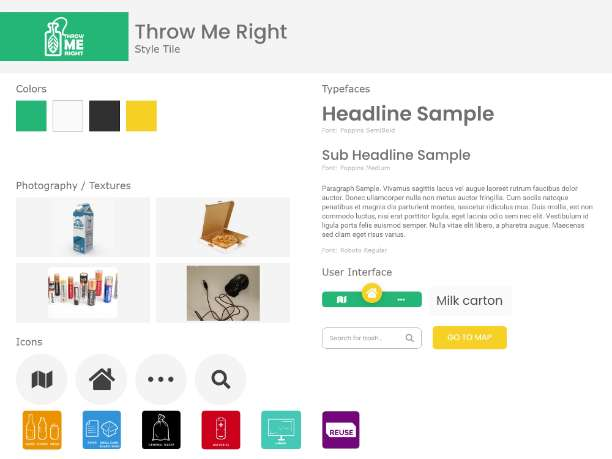
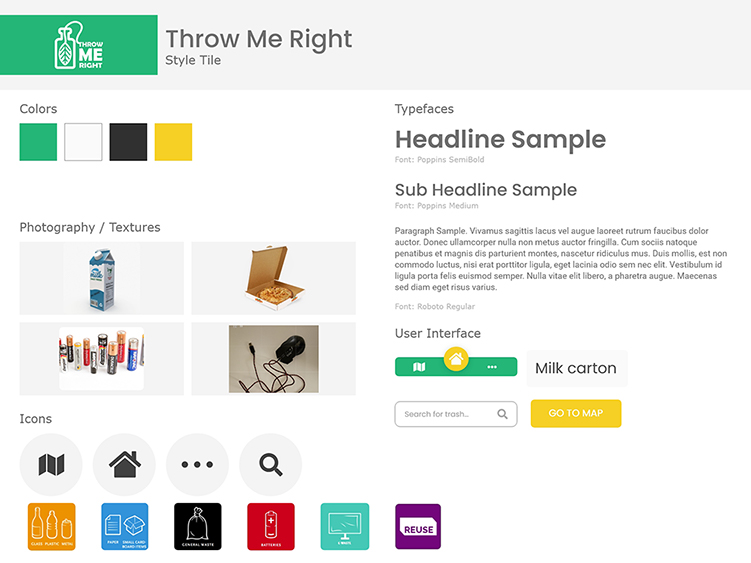
scrollbar and small changes

diff --git a/index.html b/index.html
@@ -155,9 +155,9 @@
                 </div>
                 <div class="project-process-content">
                     <h4>Style tiles</h4>
-                    <p class="project-text">Wireframes as a lo-fi digital prototype is a good choice before you'll start doing mockups. It enabled us to make a final decision of how to divide sections and where to place all important elements like buttons, icons, and images.
+                    <p class="project-text">From the beginning of the project we wanted to hark back to nature and being eco. That's why we chose combination of green and yellow color to highlight essensial information like navigation and headings (green) and call to action button (yellow). Furthermore, to keep our design clear, we used white background. Regading fonts, we used Poppins SemiBold/Bold font for heading and Roboto font for normal text.
                     </p>
-                    <img src="img/tmr" class="sketch" alt="mockup1"> 
+                    <img src="img/tmr-style-tile.jpg" class="sketch" alt="mockup1"> 
                 </div>
                 <div class="project-process-content">
                     <h4>Mockups</h4>

diff --git a/css/style.css b/css/style.css
@@ -806,6 +806,23 @@ main{
 
 @media (min-width: 900px){
     
+    .exact-project-container::-webkit-scrollbar{
+        width: 6px;
+    }
+    
+    .exact-project-container::-webkit-scrollbar-track{
+        -webkit-box-shadow: inset 0 0 6px rgba(0,0,0,0.3);
+        border-radius: 10px;
+        background-color: #F5F5F5;
+    }
+    
+    .exact-project-container::-webkit-scrollbar-thumb{
+        width: 6px;
+        background-color: var(--blue);
+        border-radius: 10px;
+    
+    }
+
     .nav-mobile-container{
         display: none;
     }
@@ -953,5 +970,9 @@ main{
 
     .type{
         font-size: 25px;
+    }
+
+    .sketch{
+        width: 75%;
     }
 }
